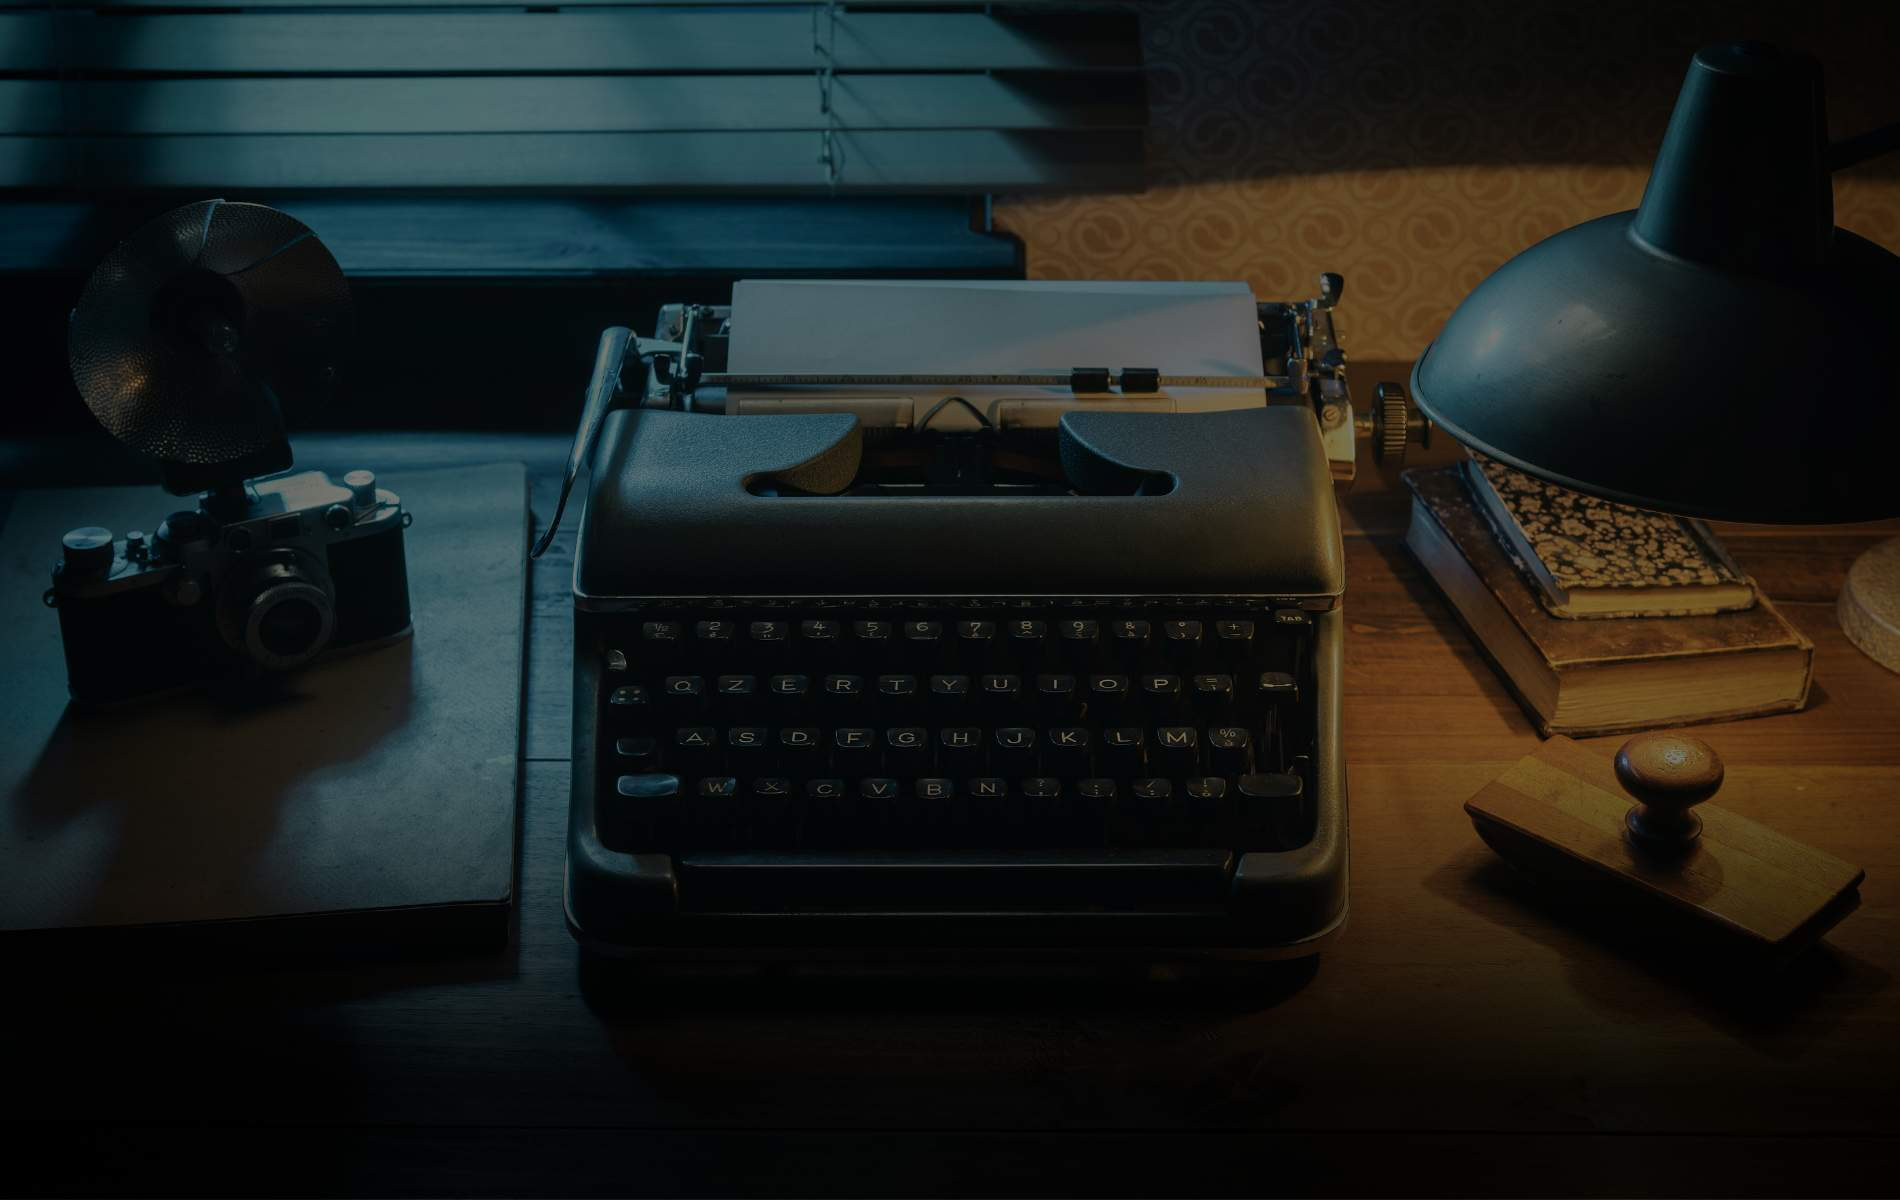
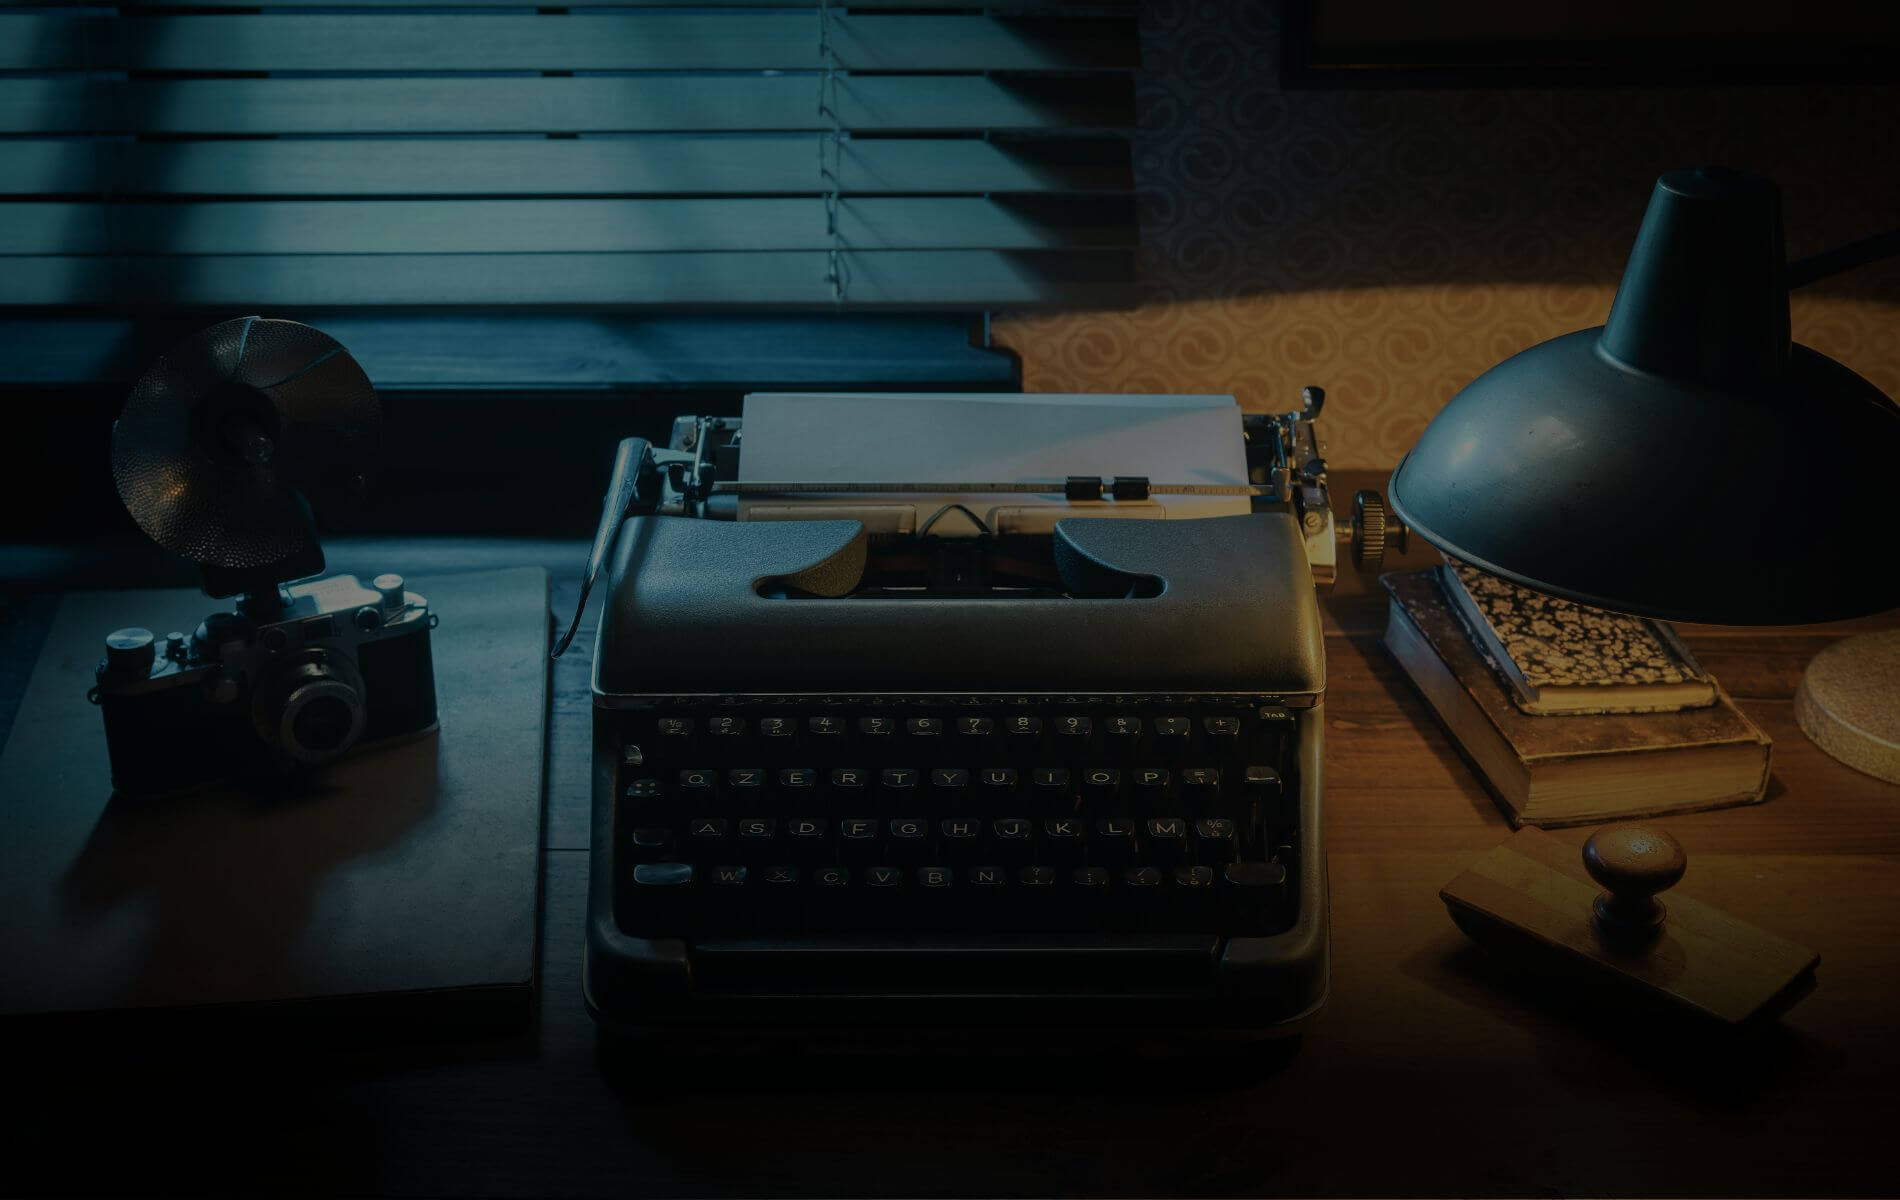
Add hero to home

diff --git a/index.html b/index.html
@@ -8,9 +8,10 @@
   <!-- description -->
   <meta name="description" content="StoryX: UX/UI Design Agency, Web Design, Development and Sustainability">
   <!-- keywords -->
-  <meta name="keywords" content="web design, web development, branding, content, storytelling">
+  <meta name="keywords"
+    content="creative, animation, business, photography, portfolio, one page, bootstrap responsive, start-up, ui/ux, html5, css3, studio, branding, creative design, multipurpose, parallax, personal, masonry, grid, coming soon, carousel, career">
   <meta http-equiv="X-UA-Compatible" content="IE=edge">
-  <title>Home | StoryX</title>
+  <title>Our Story | StoryX</title>
   <link rel="shortcut icon" href="assets/images/favicon.ico">
 
   <!-- Core Style Sheets -->
@@ -32,10 +33,14 @@
   <div class="wrapper">
 
     <!--== Header Start ==-->
-    <nav class="navbar navbar-default navbar-fixed bootsnav on no-full">
+    <nav class="navbar navbar-default navbar-fixed navbar-transparent white bootsnav on no-full">
+      <!--== Start Top Search ==-->
+      
+      <!--== End Top Search ==-->
+
+
 
       <div class="container">
-
         <!--== Start Atribute Navigation ==-->
         <div class="attr-nav hidden-xs sm-display-none">
           <ul class="social-media-dark social-top">
@@ -49,12 +54,13 @@
           </ul>
         </div>
         <!--== End Atribute Navigation ==-->
+
         <!--== Start Header Navigation ==-->
         <div class="navbar-header">
           <button type="button" class="navbar-toggle" data-toggle="collapse" data-target="#navbar-menu"> <i
               class="tr-icon ion-android-menu"></i> </button>
-          <div class="logo"> <a href="index.html"><img class="logo logo-scrolled" src="assets/images/logo-black.png"
-                alt=""> </a> </div>
+          <div class="logo"> <a href="index.html"> <img class="logo logo-display" src="assets/images/logo-white.png"
+                alt=""> <img class="logo logo-scrolled" src="assets/images/logo-black.png" alt=""> </a> </div>
         </div>
         <!--== End Header Navigation ==-->
 
@@ -69,30 +75,73 @@
 
 
           </ul>
-
-
         </div>
         <!--== /.navbar-collapse ==-->
       </div>
     </nav>
     <!--== Header End ==-->
 
+ <!--== Hero Slider Studio ==-->
+ <section class="remove-padding transition-none ">
+  <div id="rev_slider_1174_1_wrapper" class="rev_slider_wrapper fullscreen-container"
+    data-alias="inspiration-header" data-source="gallery" style="background-color:transparent;padding:0px;">
+    <!-- START REVOLUTION SLIDER 5.4.1 fullscreen mode -->
+    <div id="rev_slider_1174_1" class="rev_slider fullscreenbanner" style="display:none;" data-version="5.4.1">
+      <ul>
+        <!-- SLIDE  -->
+        <li data-index="rs-3238" data-transition="fade" data-slotamount="default" data-hideafterloop="0"
+          data-hideslideonmobile="off" data-easein="default" data-easeout="default" data-masterspeed="500"
+          data-rotate="0" data-saveperformance="off" data-title="Slide" data-param1="" data-param2="" data-param3=""
+          data-param4="" data-param5="" data-param6="" data-param7="" data-param8="" data-param9="" data-param10=""
+          data-description="">
+          <!-- MAIN IMAGE -->
+          <img src="assets/images/background/parallax-bg-slide-home.jpg" data-bgcolor="#BF0731" alt=""
+            data-bgposition="center center" data-bgfit="cover" data-bgrepeat="no-repeat" data-bgparallax="off"
+            class="rev-slidebg" data-no-retina>
+          <!-- LAYERS -->
+
+          <div class="hero-text-wrap">
+            <div class="tp-caption NotGeneric-Title pb-100 tp-resizeme" id="slide-3045-layer-1"
+              data-x="['center','center','center','center']" data-hoffset="['20','0','0','0']"
+              data-y="['middle','middle','middle','middle']" data-voffset="['0','0','0','0']"
+              data-fontsize="['70','70','70','45']" data-lineheight="['70','70','70','50']" data-width="none"
+              data-height="none" data-whitespace="nowrap" data-type="text" data-responsive_offset="on"
+              data-frames='[{"from":"x:[105%];z:0;rX:45deg;rY:0deg;rZ:90deg;sX:1;sY:1;skX:0;skY:0;","mask":"x:0px;y:0px;s:inherit;e:inherit;","speed":2000,"to":"o:1;","delay":1000,"split":"chars","splitdelay":0.05,"ease":"Power4.easeInOut"},{"delay":"wait","speed":1000,"to":"y:[100%];","mask":"x:inherit;y:inherit;s:inherit;e:inherit;","ease":"Power2.easeInOut"}]'
+              data-textAlign="['left','left','left','left']" data-paddingtop="[10,10,10,10]"
+              data-paddingright="[0,0,0,0]" data-paddingbottom="[10,10,10,10]" data-paddingleft="[0,0,0,0]"
+              style="z-index: 5; white-space: nowrap;text-transform:center ;font-weight:300; font-family: 'Montserrat', sans-serif;">
+              Website Design by StoryX</div>
 
 
 
+            <!-- LAYER NR. 15 -->
 
-    <section class="white-bg">
-      <div class="container">
-        <div class="row pt-100 pb-100">
-          <div class="col-sm-9 pt-100 pb-100 wow fadeIn" data-wow-delay="0.4s">
-            <h2 class="font-60px font-400">Welcome to StoryX </h2>
-            <h3 class="font-60px font-400 mt-0"></h3>
-            <h5 class="font-100 font-40px">Web design agency.</h5>
+            <div class="tp-caption rev-scroll-btn revs-light  rs-parallaxlevel-5 pb-100" id="slide-3238-layer-13"
+              data-x="['center','center','center','center']" data-hoffset="['0','0','0','0']"
+              data-y="['bottom','bottom','bottom','bottom']" data-voffset="['50','50','50','50']" data-width="35"
+              data-height="255" data-whitespace="nowrap" data-type="button"
+              data-actions='[{"event":"click","action":"scrollbelow","offset":"px","delay":""}]'
+              data-basealign="slide" data-responsive_offset="on" data-responsive="off"
+              data-frames='[{"from":"y:-50px;opacity:0;","speed":1500,"to":"o:1;","delay":600,"ease":"Power4.easeOut"},{"delay":"wait","speed":300,"to":"opacity:0;","ease":"nothing"}]'
+              data-textAlign="['left','left','left','left']" data-paddingtop="[0,0,0,0]"
+              data-paddingright="[0,0,0,0]" data-paddingbottom="[0,0,0,0]" data-paddingleft="[0,0,0,0]"
+              style="z-index: 19; min-width: 35px; max-width: 35px; max-width: 55px; max-width: 55px; white-space: nowrap; font-size: px; line-height: px; font-weight: 400;border-color:transparent;border-style:solid;border-width:3px;border-radius:23px 23px 23px 23px;box-sizing:border-box;-moz-box-sizing:border-box;-webkit-box-sizing:border-box;cursor:pointer;">
+              <span>
+              </span>
+            </div>
+        </li>
+      </ul>
+      <div class="tp-bannertimer tp-bottom" style="visibility: hidden !important;"></div>
+    </div>
+  </div>
+</section>
+<!--== Hero Slider Studio ==-->
 
-          </div>
-        </div>
-      </div>
-    </section>
+
+<!-- /////////////////////////////////////////////////////////// -->
+
+
+
 
 
     <section class="remove-padding transition-none ">
@@ -123,7 +172,7 @@
                   data-textAlign="['left','left','left','left']" data-paddingtop="[10,10,10,10]"
                   data-paddingright="[0,0,0,0]" data-paddingbottom="[10,10,10,10]" data-paddingleft="[0,0,0,0]"
                   style="z-index: 5; white-space: nowrap;text-transform:center ;font-weight:300; font-family: 'Montserrat', sans-serif;">
-                  We build websites that<br>tell your brands story.</div>
+                  We build websites that tell your brands story.</div>
 
 
 
@@ -155,8 +204,7 @@
         <div class="row mt-50 mb-100 pt-100 pb-100">
           <div class="col-md-7 centerize-col">
 
-            <h2 class="font-40px font-300 white-color">StoryX was founded on the belief that business can be a force for
-              good, and that the small choices we make every day, collectively, have the power to change the world.</h2>
+            <h2 class="font-40px font-300 white-color">We build websites that tell your brand's story and every project has one thing in mind. The user.</h2>
 
           </div>
         </div>

diff --git a/assets/css/bootsnav.css b/assets/css/bootsnav.css
@@ -214,8 +214,8 @@ nav.bootsnav.navbar-full .navbar-collapse ul.nav a{
 }
 
 nav.navbar.bootsnav ul.nav > li > a:hover {
-    border-bottom: 1px solid rgb(31, 31, 31, 0.6);
-    border-width: 1px;
+    /* border-bottom: 1px solid rgb(31, 31, 31, 0.6);
+    border-width: 1px; */
    
     color: #060606;
     /* text-decoration: underline; */
